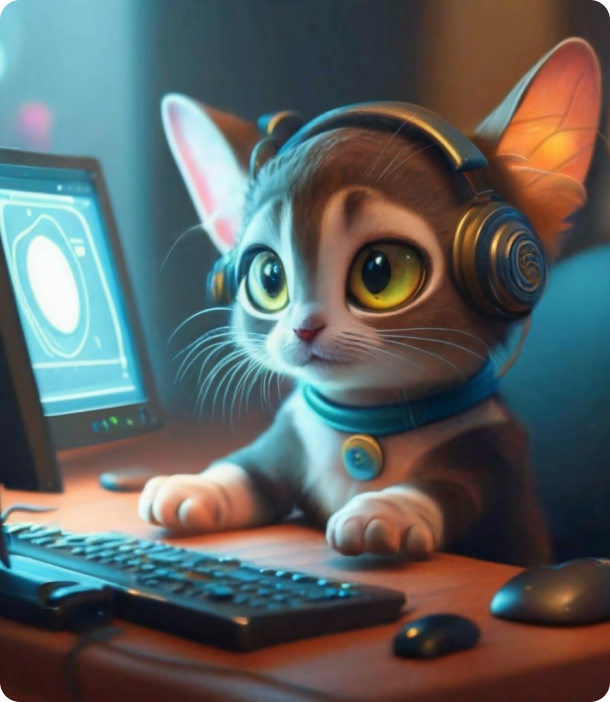
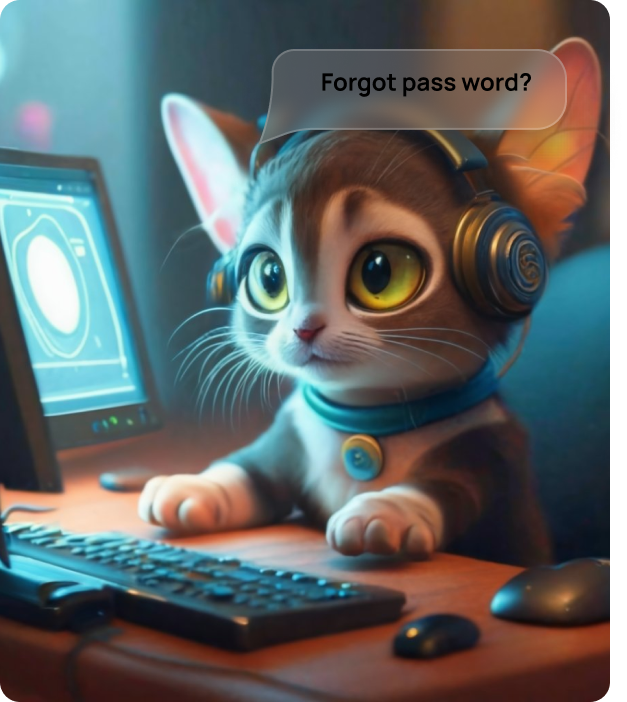
1.3

diff --git a/src/app/login/forget/forget.component.html b/src/app/login/forget/forget.component.html
@@ -1,5 +1,3 @@
-
-
 <div class="row justify-content-center">
  <div class="col-md-10" id="card--">
    <div class="card rounded-4" >
@@ -7,12 +5,7 @@
        <div class="col-md-5 ">
         <img src="assets/login/forget.png" class="img-fluid rounded-start" alt="Login Image" id="dog">
        </div>
-       <!-- <div class="col-md-5">
-        <button mat-button color="primary" class="img-fluid" >
-         <img src="assets/login/submit.png" alt="Login" class="img-fluid">
-</button> -->
-<div class="col-md-5">
- <img src="assets/login/forget1.png" alt="Login" class="img-fluid">
+      <div class="col-md-5">
  <div class="row mb-4">
  <div class="col-md-5 "></div>
  <div class="col-md-3 mb-4">
@@ -28,24 +21,9 @@
        <mat-error>Email is <strong>required</strong></mat-error>
      }
    </mat-form-field>
+   <div class="  align-items-center">
+    <button class="button-88" role="button" type="submit">Send Mail</button>
+  </div>
  </form>
 
- </div>
-          </div>
-          <div class="row">
-           <div class="col-md-5"></div>
-           <div class="col-md-5">
-           <button mat-button color="primary" class="img-fluid" id="sign">
-            <img src="assets/login/submit.png" alt="Login" class="img-fluid">
-          </button>
-         </div>
-         </div>
-         </div>
-        </div>
-
-      
-     
- </div>
-</div>
-</div>
 

diff --git a/src/app/login/forget/forget.component.css b/src/app/login/forget/forget.component.css
@@ -19,3 +19,30 @@ padding: 0;
   transform: scale(1.1);
  
  }
+ .button-88 {
+  display: flex;
+  align-items: center;
+  font-family: inherit;
+  font-weight: 500;
+  font-size: 16px;
+  padding: 0.7em 1.4em 0.7em 1.1em;
+  color: white;
+  background: #ad5389;
+  background: linear-gradient(0deg, rgb(20, 160, 167) 0%, rgb(102, 235, 247) 100%);
+  border: none;
+  box-shadow: 0 0.7em 1.5em -0.5em #148ca798;
+  letter-spacing: 0.05em;
+  border-radius: 20em;
+  cursor: pointer;
+  user-select: none;
+  -webkit-user-select: none;
+  touch-action: manipulation;
+}
+
+.button-88:hover {
+  box-shadow: 0 0.5em 1.5em -0.5em #14a73e98;
+}
+
+.button-88:active {
+  box-shadow: 0 0.3em 1em -0.5em #14a73e98;
+}

diff --git a/src/app/login/login.component.html b/src/app/login/login.component.html
@@ -50,9 +50,10 @@
                 <button mat-flat-button color="warn">Sign in with Google</button>
               </div>
                -->
-              <div class="mt-2 d-flex justify-content-center">
-                <button mat-button color="primary" class="mt-1" routerLink="/forgot">Forgot password?</button>
+               <div class="mt-2 d-flex justify-content-center">
+                <button mat-button color="primary" class="mt-1" routerLink="/forget">Forgot password?</button>
               </div>
+              
               <p class="mb-1" >Don't have an account? <a routerLink="/signup" style="font-size: 18px;">Sign up</a></p>
 
             </form>

diff --git a/src/app/app.routes.ts b/src/app/app.routes.ts
@@ -23,7 +23,7 @@ export const routes: Routes = [
 {path: 'home', component: HomeComponent},
 { path: 'signup', component: SignupComponent},
 { path: 'aboutus', component: AboutusComponent},
-{ path: 'forget', component: ForgetComponent},
+{ path: 'forget', component: ForgetComponent }, // This route is for ForgetComponent
 { path: 'pdf', component: PdfComponent},
 {path: 'profile', component: UserprofileComponent,canActivate: [AngularFireAuthGuard] },
 { path: 'swipe', component: SwipeComponent,canActivate: [AngularFireAuthGuard] },
